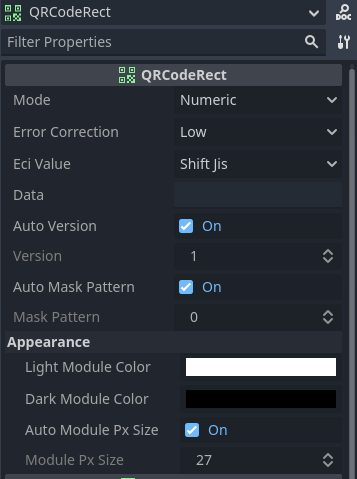
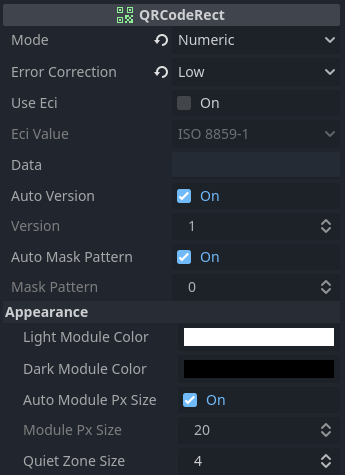
[plugin|qr] Make eci value optional
Close #4

diff --git a/README.md b/README.md
@@ -317,6 +317,8 @@ QR Code generation either with the included `QRCodeRect` node or use the encodin
 
 - `mode: QRCode.Mode`
 - `error_correction: QRCode.ErrorCorrection`
+- `use_eci: bool`  
+  Use Extended Channel Interpretation (ECI)
 - `eci_value: int`  
   Extended Channel Interpretation (ECI) Value
 - `data: Variant`  
@@ -363,6 +365,8 @@ QRCode class to generate QR Codes.
 
 - `mode: Mode`
 - `error_correction: ErrorCorrection`
+- `use_eci: bool`  
+  Use Extended Channel Interpretation (ECI)
 - `eci_value: int`  
   Extended Channel Interpretation (ECI) Value
 - `auto_version: bool`  
@@ -403,6 +407,10 @@ Shift JIS encoding utility.
 - `static func get_string_from_jis_8(arr: PackedByteArray) -> String`
 
 ### Changelog
+
+#### 0.3.0
+
+- Make ECI value optional
 
 #### 0.2.0
 
